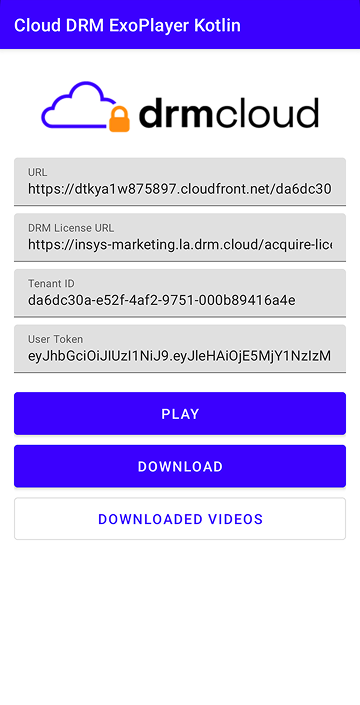
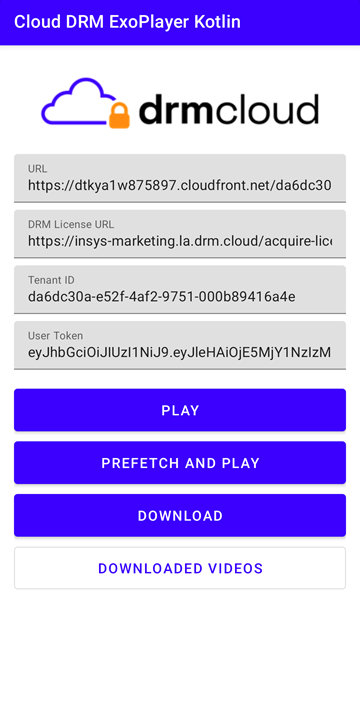
Add prefetch and play mechanism (#6)
* CVK-5693 Fix ExoPlayer background audio leak

* CVK-5695 Add error handling

* CVK-5695 Use method from error utils

* CVK-5695 Call onComplete only once

* CVK-5695 Fix color value

* Merged in CVK-6004-readme-update (pull request #6)

readme updated, offline token case

* readme updated, offline token case

* Merge remote-tracking branch 'bitbucket/main' into CVK-6004-readme-update

Approved-by: Agnieszka Dudała

* CVK-6621 Add prefetch and play mechanism

* Update readme

* Update readme

---------

Changed region(s): [[0.0, 0.0, 1.0, 0.8364]]

diff --git a/DRMPlaybackKotlin/src/main/java/com/insys/player/exoplayer/drm/kotlin/drmplaybackkotlin/ui/PlayerActivity.kt b/DRMPlaybackKotlin/src/main/java/com/insys/player/exoplayer/drm/kotlin/drmplaybackkotlin/ui/PlayerActivity.kt
@@ -3,6 +3,7 @@ package com.insys.player.exoplayer.drm.kotlin.drmplaybackkotlin.ui
 import android.os.Bundle
 import android.util.Log
 import androidx.appcompat.app.AppCompatActivity
+import androidx.core.net.toUri
 import androidx.lifecycle.ViewModelProvider
 import androidx.lifecycle.lifecycleScope
 import com.google.android.exoplayer2.C
@@ -14,10 +15,13 @@ import com.google.android.exoplayer2.Player.STATE_BUFFERING
 import com.google.android.exoplayer2.Player.STATE_ENDED
 import com.google.android.exoplayer2.Player.STATE_READY
 import com.google.android.exoplayer2.drm.DefaultDrmSessionManager
+import com.google.android.exoplayer2.drm.DrmSessionEventListener
 import com.google.android.exoplayer2.drm.FrameworkMediaDrm
 import com.google.android.exoplayer2.drm.HttpMediaDrmCallback
+import com.google.android.exoplayer2.drm.OfflineLicenseHelper
 import com.google.android.exoplayer2.source.DefaultMediaSourceFactory
 import com.google.android.exoplayer2.source.UnrecognizedInputFormatException
+import com.google.android.exoplayer2.source.dash.DashUtil
 import com.google.android.exoplayer2.upstream.DefaultHttpDataSource
 import com.google.android.exoplayer2.upstream.HttpDataSource
 import com.google.android.exoplayer2.upstream.cache.CacheDataSource
@@ -28,6 +32,7 @@ import com.insys.player.exoplayer.drm.kotlin.drmplaybackkotlin.utils.Constants.H
 import com.insys.player.exoplayer.drm.kotlin.drmplaybackkotlin.utils.Constants.HttpHeaders.USER_TOKEN
 import com.insys.player.exoplayer.drm.kotlin.drmplaybackkotlin.utils.Constants.IntentExtra.DRM_LICENSE_URL
 import com.insys.player.exoplayer.drm.kotlin.drmplaybackkotlin.utils.Constants.IntentExtra.IS_OFFLINE
+import com.insys.player.exoplayer.drm.kotlin.drmplaybackkotlin.utils.Constants.IntentExtra.PREFETCH_MODE
 import com.insys.player.exoplayer.drm.kotlin.drmplaybackkotlin.utils.Constants.IntentExtra.URL
 import com.insys.player.exoplayer.drm.kotlin.drmplaybackkotlin.utils.Constants.IntentExtra.X_DRM_BRAND_GUID
 import com.insys.player.exoplayer.drm.kotlin.drmplaybackkotlin.utils.Constants.IntentExtra.X_DRM_USER_TOKEN
@@ -36,13 +41,16 @@ import com.insys.player.exoplayer.drm.kotlin.drmplaybackkotlin.utils.ErrorUtils
 import com.insys.player.exoplayer.drm.kotlin.drmplaybackkotlin.utils.ErrorUtils.findHttpException
 import com.insys.player.exoplayer.drm.kotlin.drmplaybackkotlin.utils.extractMediaId
 import com.insys.player.exoplayer.drm.kotlin.drmplaybackkotlin.viewmodel.ExoPlayerViewModel
+import kotlinx.coroutines.Dispatchers
 import kotlinx.coroutines.launch
+import kotlinx.coroutines.withContext
 
 class PlayerActivity : AppCompatActivity() {
     private val tag = "PlayerActivity"
     private lateinit var binding: ActivityPlayerBinding
     private lateinit var viewModel: ExoPlayerViewModel
     private var exoPlayer: ExoPlayer? = null
+    private var isInitializing = false
 
     override fun onCreate(savedInstanceState: Bundle?) {
         super.onCreate(savedInstanceState)
@@ -93,7 +101,11 @@ class PlayerActivity : AppCompatActivity() {
     }
 
     private fun initializePlayer() {
+        if (isInitializing || exoPlayer != null) return
+        isInitializing = true
+
         val isOffline = intent.getBooleanExtra(IS_OFFLINE, false)
+        val shouldPrefetch = intent.getBooleanExtra(PREFETCH_MODE, false)
         val mediaUrl = intent.getStringExtra(URL)
         val drmLicenseUrl = intent.getStringExtra(DRM_LICENSE_URL)
 
@@ -104,17 +116,96 @@ class PlayerActivity : AppCompatActivity() {
         }
 
         lifecycleScope.launch {
-            val mediaId = mediaUrl.extractMediaId()
-            val videoFromDb = viewModel.getDownloadedVideoById(mediaId)
-            val keySetId = videoFromDb?.keySetId
+            try {
+                if (shouldPrefetch && !isOffline) {
+                    launch(Dispatchers.IO) {
+                        prefetchDrmLicense(mediaUrl, drmLicenseUrl)
+                    }
+                }
 
-            if (isOffline && keySetId == null) {
-                toast("Error: No license.")
-                finish()
-                return@launch
+                val mediaId = mediaUrl.extractMediaId()
+                val videoFromDb = viewModel.getDownloadedVideoById(mediaId)
+                val keySetId = videoFromDb?.keySetId
+
+                if (isOffline && keySetId == null) {
+                    toast("Error: No license.")
+                    finish()
+                    return@launch
+                }
+
+                setupPlayer(isOffline, mediaUrl, drmLicenseUrl, keySetId, shouldPrefetch)
+            } catch (e: Exception) {
+                toast("Initialization error.")
+                Log.e(tag, "Initialization error: ${e.message}")
+            } finally {
+                isInitializing = false
             }
+        }
+    }
 
-            setupPlayer(isOffline, mediaUrl, drmLicenseUrl, keySetId)
+    private suspend fun prefetchDrmLicense(mediaUrl: String, drmLicenseUrl: String) {
+        withContext(Dispatchers.IO) {
+            var offlineLicenseHelper: OfflineLicenseHelper? = null
+            try {
+                Log.d(tag, "Starting DRM prefetch (parsing manifest)...")
+                val dataSourceFactory = DefaultHttpDataSource.Factory()
+                    .setAllowCrossProtocolRedirects(true)
+                val xDrmBrandGuid = intent.getStringExtra(X_DRM_BRAND_GUID)
+                val xDrmUserToken = intent.getStringExtra(X_DRM_USER_TOKEN)
+
+                if (xDrmBrandGuid != null && xDrmUserToken != null) {
+                    val headers = mapOf(
+                        BRAND_GUID to xDrmBrandGuid,
+                        USER_TOKEN to xDrmUserToken
+                    )
+                    dataSourceFactory.setDefaultRequestProperties(headers)
+                    Log.d(tag, "Headers set for prefetch: BRAND_GUID and USER_TOKEN")
+                }
+
+                val dataSource = dataSourceFactory.createDataSource()
+
+                // Load and parse the DASH manifest to extract DRM initialization data
+                val dashManifest = DashUtil.loadManifest(dataSource, mediaUrl.toUri())
+
+                // Locate the first video adaptation set to find encryption details
+                val period = dashManifest.getPeriod(0)
+                val adaptationSetIndex =
+                    period.adaptationSets.indexOfFirst { it.type == C.TRACK_TYPE_VIDEO }
+
+                if (adaptationSetIndex == -1) {
+                    Log.e(tag, "No video adaptation set found in manifest.")
+                    return@withContext
+                }
+
+                val adaptationSet = period.adaptationSets[adaptationSetIndex]
+                val representation = adaptationSet.representations[0]
+
+                // Load sample format which contains the necessary DrmInitData
+                val format =
+                    DashUtil.loadSampleFormat(dataSource, C.TRACK_TYPE_VIDEO, representation)
+
+                if (format?.drmInitData == null) {
+                    Log.e(tag, "Prefetch failed: No DRM data in format.")
+                    return@withContext
+                }
+
+                Log.d(tag, "Manifest parsed. Found DRM init data. Requesting license...")
+
+                offlineLicenseHelper = OfflineLicenseHelper.newWidevineInstance(
+                    drmLicenseUrl,
+                    dataSourceFactory,
+                    DrmSessionEventListener.EventDispatcher()
+                )
+                // Perform the actual license download and storage
+                offlineLicenseHelper.downloadLicense(format)
+
+                Log.d(tag, "DRM License prefetch completed successfully.")
+            } catch (e: Exception) {
+                Log.e(tag, "DRM Prefetch failed: ${e.message}")
+                e.printStackTrace()
+            } finally {
+                offlineLicenseHelper?.release()
+            }
         }
     }
 
@@ -122,7 +213,8 @@ class PlayerActivity : AppCompatActivity() {
         isOffline: Boolean,
         mediaUrl: String,
         drmLicenseUrl: String?,
-        keySetId: ByteArray?
+        keySetId: ByteArray?,
+        shouldPrefetch: Boolean = false
     ) {
         if (exoPlayer != null) return
         val drmSessionManager: DefaultDrmSessionManager
@@ -232,7 +324,7 @@ class PlayerActivity : AppCompatActivity() {
         val mediaItem = MediaItem.fromUri(mediaUrl)
 
         exoPlayer?.setMediaItem(mediaItem)
-        exoPlayer?.playWhenReady = true
+        exoPlayer?.playWhenReady = !shouldPrefetch
         exoPlayer?.prepare()
     }
 }

diff --git a/DRMPlaybackKotlin/src/main/java/com/insys/player/exoplayer/drm/kotlin/drmplaybackkotlin/MainActivity.kt b/DRMPlaybackKotlin/src/main/java/com/insys/player/exoplayer/drm/kotlin/drmplaybackkotlin/MainActivity.kt
@@ -21,6 +21,7 @@ import com.insys.player.exoplayer.drm.kotlin.drmplaybackkotlin.ui.downloads.Down
 import com.insys.player.exoplayer.drm.kotlin.drmplaybackkotlin.utils.Constants.CLOUD_DRM_URL
 import com.insys.player.exoplayer.drm.kotlin.drmplaybackkotlin.utils.Constants.IntentExtra.DRM_LICENSE_URL
 import com.insys.player.exoplayer.drm.kotlin.drmplaybackkotlin.utils.Constants.IntentExtra.IS_OFFLINE
+import com.insys.player.exoplayer.drm.kotlin.drmplaybackkotlin.utils.Constants.IntentExtra.PREFETCH_MODE
 import com.insys.player.exoplayer.drm.kotlin.drmplaybackkotlin.utils.Constants.IntentExtra.URL
 import com.insys.player.exoplayer.drm.kotlin.drmplaybackkotlin.utils.Constants.IntentExtra.X_DRM_BRAND_GUID
 import com.insys.player.exoplayer.drm.kotlin.drmplaybackkotlin.utils.Constants.IntentExtra.X_DRM_USER_TOKEN
@@ -84,6 +85,17 @@ class MainActivity : AppCompatActivity() {
 
         binding.btnGoToDownloads.setOnClickListener {
             startActivity(Intent(this, DownloadsActivity::class.java))
+        }
+
+        binding.btnPrefetchAndPlay.setOnClickListener {
+            val intent = Intent(this, PlayerActivity::class.java).apply {
+                putExtra(PREFETCH_MODE, true)
+                putExtra(URL, binding.etUrl.text.toString())
+                putExtra(DRM_LICENSE_URL, binding.etDrmLicenseUrl.text.toString())
+                putExtra(X_DRM_USER_TOKEN, binding.etXDrmUserToken.text.toString())
+                putExtra(X_DRM_BRAND_GUID, binding.etXDrmBrandGuid.text.toString())
+            }
+            startActivity(intent)
         }
 
         downloadButton.setOnClickListener {

diff --git a/DRMPlaybackKotlin/src/main/java/com/insys/player/exoplayer/drm/kotlin/drmplaybackkotlin/utils/Constants.kt b/DRMPlaybackKotlin/src/main/java/com/insys/player/exoplayer/drm/kotlin/drmplaybackkotlin/utils/Constants.kt
@@ -9,6 +9,7 @@ object Constants {
         const val X_DRM_BRAND_GUID = "X_DRM_BRAND_GUID"
         const val X_DRM_USER_TOKEN = "X_DRM_USER_TOKEN"
         const val IS_OFFLINE = "IS_OFFLINE"
+        const val PREFETCH_MODE = "PREFETCH_MODE"
     }
 
     object HttpHeaders {

diff --git a/README.md b/README.md
@@ -91,6 +91,30 @@ The app automatically manages the DRM configuration based on your connection sta
 
 The **DELETE** button physically removes the video file from the device's memory and clears the metadata and license from the local database, enabling the video to be downloaded again.
 
+## DRM License Prefetching
+
+This section describes the Android implementation of the DRM prefetch mechanism. It demonstrates how to acquire Widevine licenses before playback begins to minimize startup latency.
+
+### 1. The "Prefetch and Play" Logic
+Standard playback starts license acquisition only after the player is ready. Prefetch mechanism works differently:
+
+* **Background Acquisition:** As soon as user clicks the **PREFETCH AND PLAY** button, it launches a background task to fetch the DRM license immediately.
+* **Manifest Parsing:** It uses `DashUtil` to parse the `.mpd` manifest in the background to find the `DrmInitData`.
+* **Instant Playout:** While the license is being fetched in the background, the player is initialized but kept in a paused state (`playWhenReady = false`).
+* **Zero DRM Latency:** When you finally press **PLAY** on the player, the license is already in the system memory (CDM), so the video starts as soon as the first media segments are buffered.
+
+### 2. How to Test
+To verify the prefetch mechanism:
+
+1. **Tools:** Open **Android Studio Network Inspector** or **Logcat** (filter by tag: `PlayerActivity`).
+2. **Action:** Launch the player using the **PREFETCH AND PLAY** button.
+3. **Prefetch Phase (Logcat):** Look for the following sequence of logs occurring immediately upon activity start:
+    - `Starting DRM prefetch (parsing manifest)...`
+    - `Headers set for prefetch: BRAND_GUID and USER_TOKEN`
+    - `Manifest parsed. Found DRM init data. Requesting license...`
+    - `DRM License prefetch completed successfully.`
+4. **Network Phase (Inspector):** Confirm that the manifest (`.mpd`) and the license server request (`drmLicenseUrl`) are completed **before** you interact with the player.
+5. **Playback Phase:** Press **PLAY** and confirm that the video starts without a new request to the license server.
 
 ## License
 
